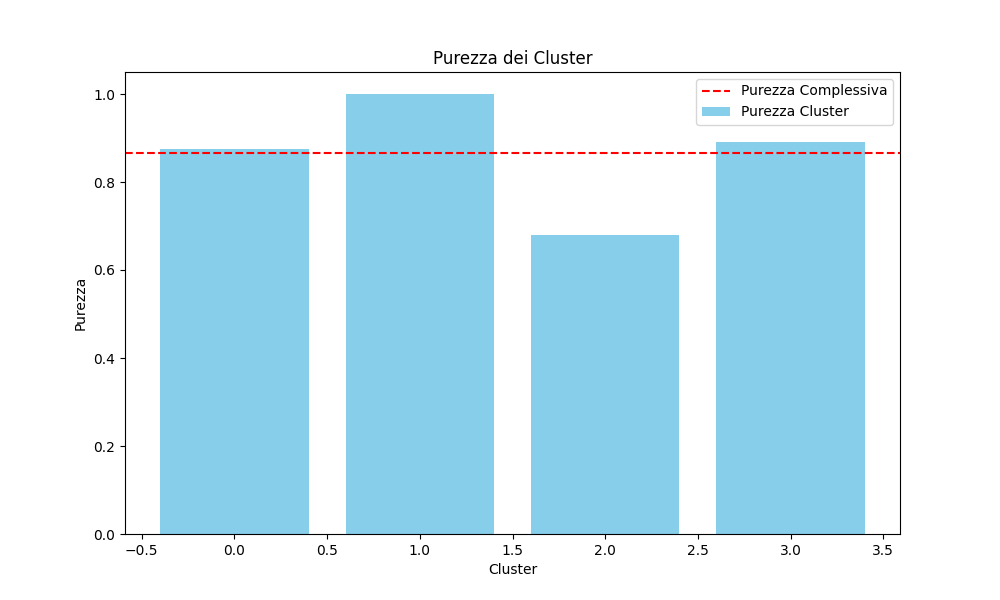
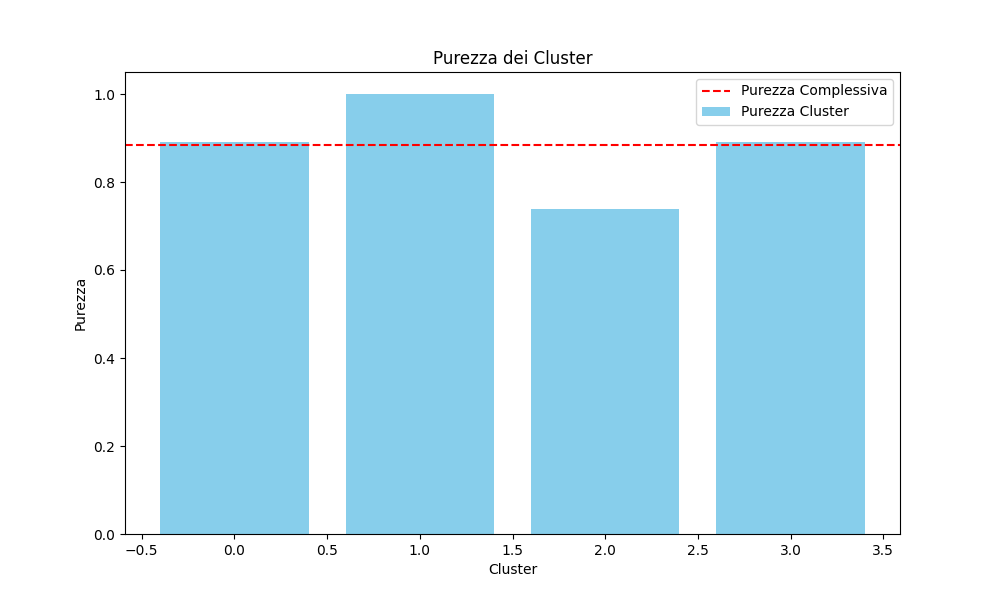
Aggiunta commenti e pulizia codice

Changed region(s): [[0.124, 0.21, 0.899, 0.27], [0.527, 0.33, 0.682, 0.39]]

diff --git a/feature_extraction/extract_increment.py b/feature_extraction/extract_increment.py
@@ -1,9 +1,20 @@
 import pandas as pd
 
-
 def dati_da_utilizzare(df):
-    tipologie = df['tipologia_professionista_sanitario'].unique()
+    """
+    Definisce i dati da utilizzare per calcolare l'incremento
+
+    Args:
+            df: DataFrame contenente i dati iniziali
+    Returns:
+            tipologie: lista delle tipologie di professionista sanitario
+            DaF: DataFrame che contiene il numero di occorrenze di ogni professionista sanitario per mese
+            intervalli_anni_mesi: lista di tuple che definiscono intervalli di anni e mesi in formato semestrale
+        """
+
+    tipologie = df['tipologia_professionista_sanitario'].unique()  #estrae le tipologie uniche di professionista
     DaF = pd.read_parquet('datasets/df_aggregato.parquet')
+
     # Lista degli intervalli di anni e mesi in formato semestrale
     intervalli_anni_mesi = [
         (2019, 2020, '1, 2, 3, 4, 5, 6'),
@@ -16,18 +27,37 @@ def dati_da_utilizzare(df):
     return tipologie, DaF, intervalli_anni_mesi
 
 def get_intervallo_mesi(mese):
+    """
+    Restituisce l'intervallo di mesi a cui appartiene il mese specificato.
+
+    Args:
+           mese: Mese per il quale si desidera ottenere l'intervallo
+    Returns:
+           intervallo: Intervallo di mesi in cui il mese rientra
+       """
     intervalli_mesi = {
             (1, 2, 3, 4, 5, 6): '1, 2, 3, 4, 5, 6',
             (7, 8, 9, 10, 11, 12): '7, 8, 9, 10, 11, 12'
         }
-
     for mesi, intervallo in intervalli_mesi.items():
         if mese in mesi:
             return intervallo
-
     return "Intervallo non trovato"
 
 def somma_per_intervallo_mesi(df, tipologie):
+    """
+       Calcola la somma delle occorrenze di ogni professionista sanitario per l'intervallo di
+       mesi specificato (semestre)
+
+       Args:
+           df: DataFrame contenente i dati
+           tipologie: Lista di tipologie di professionisti sanitari
+
+       Returns:
+           risultato: DataFrame con la somma delle occorrenze per tipologia, anno e intervallo di mesi
+       """
+
+
     # Aggiungi una colonna per l'intervallo di mesi
     df['intervallo_mesi'] = df['mese'].apply(get_intervallo_mesi)
 
@@ -78,14 +108,15 @@ def classifica_incremento(percentuale):
     Returns:
     str: La classificazione dell'incremento ('alta', 'media', 'costante', 'bassa').
     """
-    if percentuale > 70:
-        return 'alta'
-    elif 35 < percentuale <= 70:
-        return 'media'
+
+    if percentuale < 0:
+        return 'costante'
     elif 0 <= percentuale <= 35:
         return 'bassa'
-    elif percentuale < 0:
-        return 'costante'
+    elif 35 < percentuale <= 80:
+        return 'media'
+    else:
+        return 'alta'
 
 
 
@@ -144,6 +175,9 @@ def incremento(df):
 
     # Unisci la colonna incremento al DataFrame originale
     df_finale = unisci_incremento(df, risultato_esteso)
+
+    # Elimina tutte le righe dove l'anno è 2019
+    df_finale = df_finale[df_finale['year'] != 2019]
 
     return df_finale
 

diff --git a/run.py b/run.py
@@ -5,46 +5,29 @@ from feature_extraction.features_extraction import feature_extraction
 from feature_extraction.extract_increment import incremento
 from clustering.clustering_execution import execute_clustering
 
-# Configura pandas per visualizzare un DataFrame senza limiti di spazio
-pd.set_option('display.max_rows', None)  # Nessun limite sul numero di righe
-pd.set_option('display.max_columns', None)  # Nessun limite sul numero di colonne
-pd.set_option('display.max_colwidth', None)  # Nessun limite sulla larghezza delle colonne
-pd.set_option('display.expand_frame_repr', False)  # Non espande il DataFrame su più righe
-
 # Caricamento del dataset
 file_path = 'datasets/challenge_campus_biomedico_2024.parquet'
 df = pd.read_parquet(file_path)
 
-# Visualizzazione del numero di righe e colonne del dataset
-num_rows, num_columns = df.shape
-print(f" Inizialmente il DataFrame ha {num_rows} righe e {num_columns} colonne.")
-
-# Data Cleaning
+# STEP 1: Data Cleaning
 df = data_cleaning(df)
-# Features Selection
+
+# STEP 2: Features Selection
 df = feature_selection_execution(df)
-# Feature extraction
+
+# STEP 3: Feature extraction
 df = feature_extraction(df)
 
-# Visualizzazione del numero di righe e colonne del dataset
-num_rows, num_columns = df.shape
-print(f" Dopo la pulizia dei dati, il DataFrame ha {num_rows} righe e {num_columns} colonne.")
-
-#df.to_csv('datasets/challenge_campus_biomedico_2024_imputed_selected_extracted.csv', index=False)
-
-# Calcolo la variabile incremento
+# STEP 4: Calcolo dell'incremento
 df = incremento(df)
 
-# Elimina tutte le righe dove l'anno è 2019
-df = df[df['year'] != 2019]
-df.to_parquet('datasets/CMA.parquet', index=False)
+# STEP 5: Clustering Execution
+df_clustered, cluster_labels, svd_transformed_data = execute_clustering(df , n_clusters=4)
 
-# Eseguo il clustering
-df_clustered, cluster_labels, svd_transformed_data = execute_clustering(df,n_clusters=4)
 
-# Visualizzazione del numero di righe e colonne del dataset
-num_rows, num_columns = df.shape
-print(f" Dopo il clustering, il DataFrame ha {num_rows} righe e {num_columns} colonne.")
+
+
+
 
 
 
@@ -102,4 +85,9 @@ L'indice di Silhouette medio normalizzato è : 0.7405819883564095
 Calcolo della metrica finale...
 La metrica finale è : 0.5858758156998034
 La metrica finale è: 0.59
+
+#TODO
+1. Cambio gli if per il valore dell'incremento
+
+
 '''

diff --git a/clustering/clustering_metrics.py b/clustering/clustering_metrics.py
@@ -181,7 +181,7 @@ def compute_all_metrics(df: pd.DataFrame, label_encoders, target_column='increme
     cluster_purity, purity_score = compute_purity(df, target_column)
 
     print("\nCalcolo dell'indice di Silhouette... Attendi...")
-    silhouette_score = compute_silhouette_score(df)
+    #silhouette_score = compute_silhouette_score(df)
 
     # Plot della purezza dei cluster
     plot_purity_bars(cluster_purity, purity_score)
@@ -191,8 +191,8 @@ def compute_all_metrics(df: pd.DataFrame, label_encoders, target_column='increme
         plot_pca_components(pca_data, df['Cluster'])
 
     print("\nCalcolo la metrica finale...")
-    final_metric = compute_final_metric(purity_score,silhouette_score, num_clusters=len(df['Cluster'].unique()))
-    print(f"\nLa metrica finale è : {final_metric:.2f}")
+    #final_metric = compute_final_metric(purity_score,silhouette_score, num_clusters=len(df['Cluster'].unique()))
+    #print(f"\nLa metrica finale è : {final_metric:.2f}")
 
 
 

diff --git a/clustering/clustering_analyzer.py b/clustering/clustering_analyzer.py
@@ -35,7 +35,6 @@ def plot_categorical_features(df, categorical_features, reverse_mapping):
         if feature in reverse_mapping:
             handles, labels = plt.gca().get_legend_handles_labels()
             new_labels = []
-
             for label in labels:
                 try:
                     # Cerca di convertire l'etichetta in un numero e usare la mappatura
